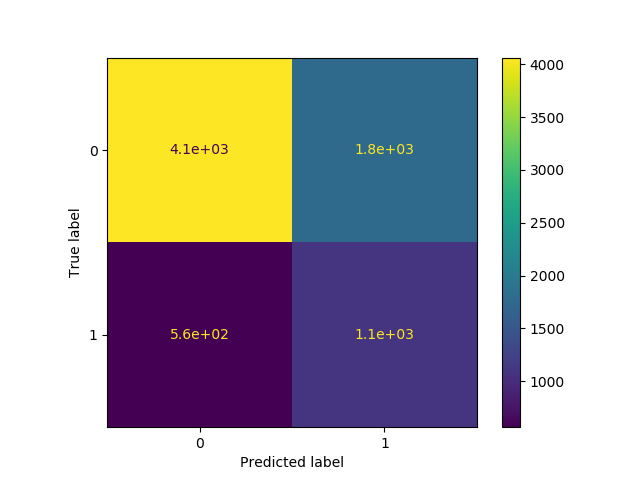
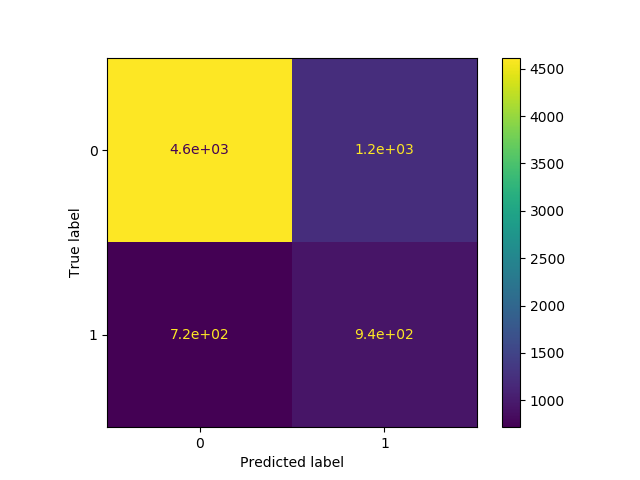
baseline model calculated

diff --git a/src/analysis.py b/src/analysis.py
@@ -26,41 +26,7 @@ from docopt import docopt
 opt = docopt(__doc__)
 
 
-def get_report(X_train, y_train, X_test, y_test, output_folder='results'):
-
-
-def main(input, output):
-    # turn csv to dataframe
-    df = pd.read_csv(f"./data/{input}", index_col=0)
-
-    # split training and test
-    X = df.drop(columns=['DEFAULT_NEXT_MONTH'])
-    y = df['DEFAULT_NEXT_MONTH']
-    X_train, X_test, y_train, y_test = train_test_split(
-        X, y, test_size=0.25, random_state=122)
-
-    # We use robust scalar as most of our data is not normally distributed and we have a high amount of outliers.
-    columns = ['LIMIT_BAL', 'SEX', 'EDUCATION', 'MARRIAGE', 'AGE', 'PAY_1', 'PAY_2',
-               'PAY_3', 'PAY_4', 'PAY_5', 'PAY_6', 'BILL_AMT1', 'BILL_AMT2',
-               'BILL_AMT3', 'BILL_AMT4', 'BILL_AMT5', 'BILL_AMT6', 'PAY_AMT1',
-               'PAY_AMT2', 'PAY_AMT3', 'PAY_AMT4', 'PAY_AMT5', 'PAY_AMT6']
-    scaler = preprocessing.RobustScaler()
-    X_train = pd.DataFrame(scaler.fit_transform(X_train), columns=columns)
-    X_test = pd.DataFrame(scaler.transform(X_test), columns=columns)
-
-    # Use RFE to identify the most identify the most useful predictors.
-    # Then we will drop those columns that are deemed as less useful.
-    logreg = LogisticRegression(solver="lbfgs")
-    rfe = RFE(logreg, 7)
-    rfe = rfe.fit(X_train, y_train.values.ravel())
-    columns_to_drop = list()
-    for i in range(len(rfe.support_)):
-        include = rfe.support_[i]
-        if include == False:
-            columns_to_drop.append(columns[i])
-    X_train = X_train.drop(columns_to_drop, axis=1)
-    X_test = X_test.drop(columns_to_drop, axis=1)
-
+def get_report(X_train, y_train, X_test, y_test, model, output):
     os = SMOTE(random_state=0)
     os_data_X, os_data_y = os.fit_sample(X_train, y_train)
     os_data_X = pd.DataFrame(data=os_data_X, columns=X_train.columns)
@@ -69,7 +35,7 @@ def main(input, output):
     hyperparameters = {
         'C': np.logspace(-4, 4, 20)
     }
-    clf = GridSearchCV(logreg, hyperparameters, cv=5, verbose=0)
+    clf = GridSearchCV(model, hyperparameters, cv=5, verbose=0)
     best_model = clf.fit(os_data_X, os_data_y)
 
     # measure accuracies
@@ -102,6 +68,42 @@ def main(input, output):
     plt.xlabel('false positive rate')
     plt.ylabel('true positive rate')
     plt.savefig(f'./{output}/roc.png')
+
+
+def main(input, output):
+    # turn csv to dataframe
+    df = pd.read_csv(f"./data/{input}", index_col=0)
+
+    # split training and test
+    X = df.drop(columns=['DEFAULT_NEXT_MONTH'])
+    y = df['DEFAULT_NEXT_MONTH']
+    X_train, X_test, y_train, y_test = train_test_split(
+        X, y, test_size=0.25, random_state=122)
+
+    # We use robust scalar as most of our data is not normally distributed and we have a high amount of outliers.
+    columns = ['LIMIT_BAL', 'SEX', 'EDUCATION', 'MARRIAGE', 'AGE', 'PAY_1', 'PAY_2',
+               'PAY_3', 'PAY_4', 'PAY_5', 'PAY_6', 'BILL_AMT1', 'BILL_AMT2',
+               'BILL_AMT3', 'BILL_AMT4', 'BILL_AMT5', 'BILL_AMT6', 'PAY_AMT1',
+               'PAY_AMT2', 'PAY_AMT3', 'PAY_AMT4', 'PAY_AMT5', 'PAY_AMT6']
+    scaler = preprocessing.RobustScaler()
+    X_train = pd.DataFrame(scaler.fit_transform(X_train), columns=columns)
+    X_test = pd.DataFrame(scaler.transform(X_test), columns=columns)
+
+    # Use RFE to identify the most identify the most useful predictors.
+    # Then we will drop those columns that are deemed as less useful.
+    logreg = LogisticRegression(solver="lbfgs")
+
+    get_report(X_train, y_train, X_test, y_test, logreg, 'results_baseline')
+    rfe = RFE(logreg, 7)
+    rfe = rfe.fit(X_train, y_train.values.ravel())
+    columns_to_drop = list()
+    for i in range(len(rfe.support_)):
+        include = rfe.support_[i]
+        if include == False:
+            columns_to_drop.append(columns[i])
+    X_train = X_train.drop(columns_to_drop, axis=1)
+    X_test = X_test.drop(columns_to_drop, axis=1)
+    get_report(X_train, y_train, X_test, y_test, logreg, output)
 
 
 if __name__ == "__main__":
